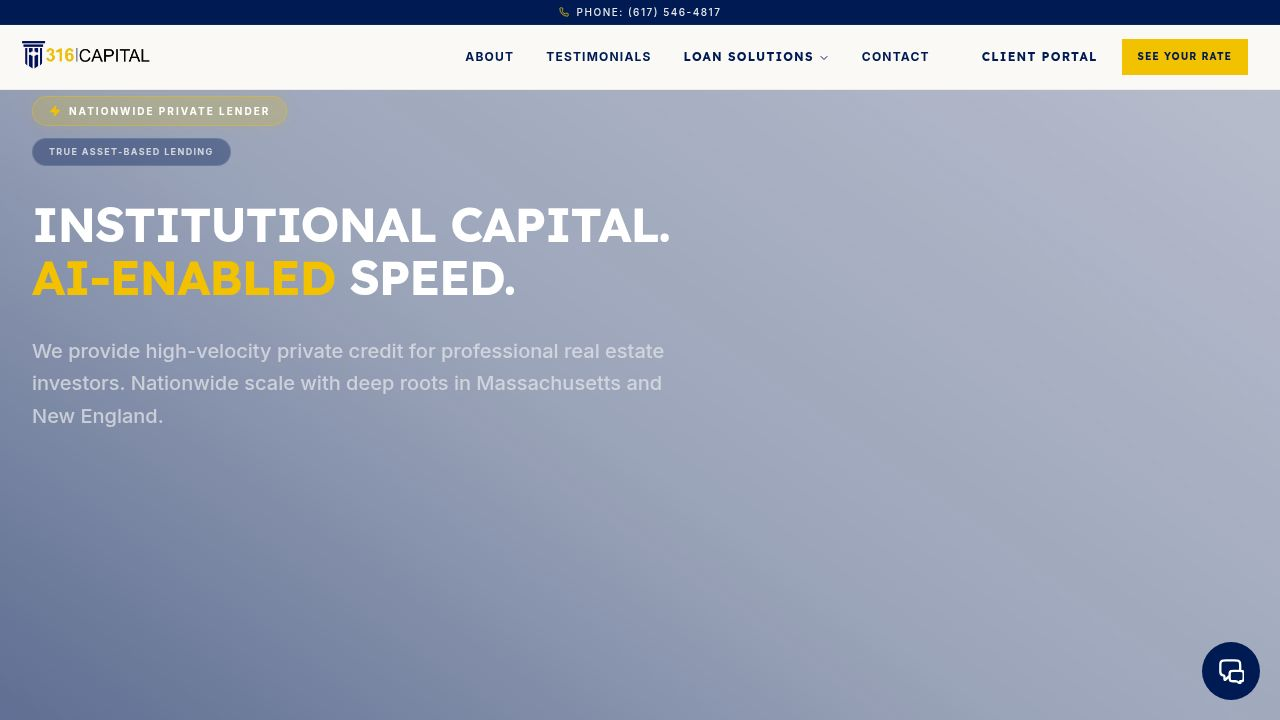
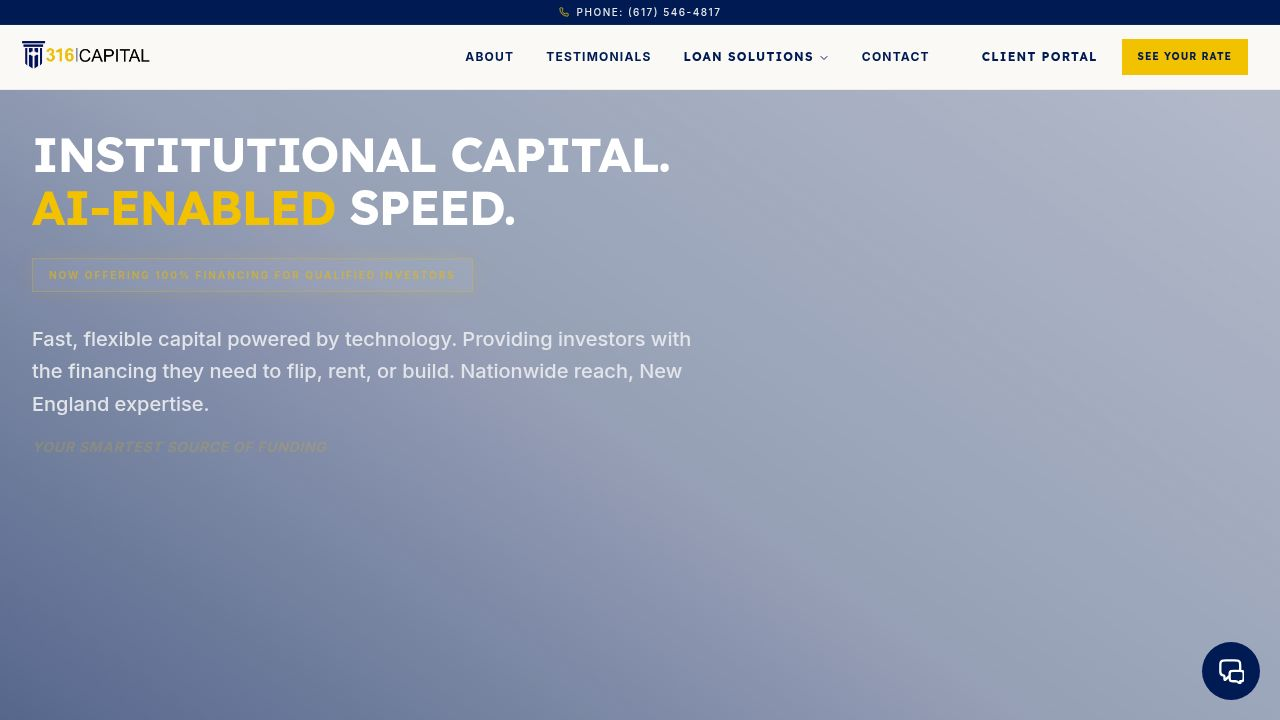
Update website text to highlight technology and financing options
Update hero section copy in client/src/components/home/hero.tsx to reflect a technology-powered approach and specific financing needs.

Replit-Commit-Author: Agent
Replit-Commit-Session-Id: 6fa25a02-81a2-4ec2-8abc-8bbcf677a59e
Replit-Commit-Checkpoint-Type: full_checkpoint
Replit-Commit-Event-Id: c5c64c22-6d39-41ee-adae-b44b4acd49f1
Replit-Commit-Screenshot-Url: https://storage.googleapis.com/screenshot-production-us-central1/8a4d1e78-76b3-4b1b-9b1b-6099a4dc3aaa/6fa25a02-81a2-4ec2-8abc-8bbcf677a59e/URkbrSx
Replit-Helium-Checkpoint-Created: true

Changed region(s): [[0.0, 0.1222, 0.5312, 0.4278], [0.0, 0.4583, 0.5312, 0.6111]]

diff --git a/client/src/components/home/hero.tsx b/client/src/components/home/hero.tsx
@@ -82,7 +82,7 @@ export function Hero() {
             transition={ { delay: 0.9 } }
             className="text-lg md:text-xl text-gray-200 mb-4 max-w-2xl font-medium leading-relaxed"
           >
-            We provide high-velocity private credit for professional real estate investors. Nationwide scale with deep roots in Massachusetts and New England.
+            Fast, flexible capital powered by technology. Providing investors with the financing they need to flip, rent, or build. Nationwide reach, New England expertise.
           </motion.p>
           
           <motion.p 
